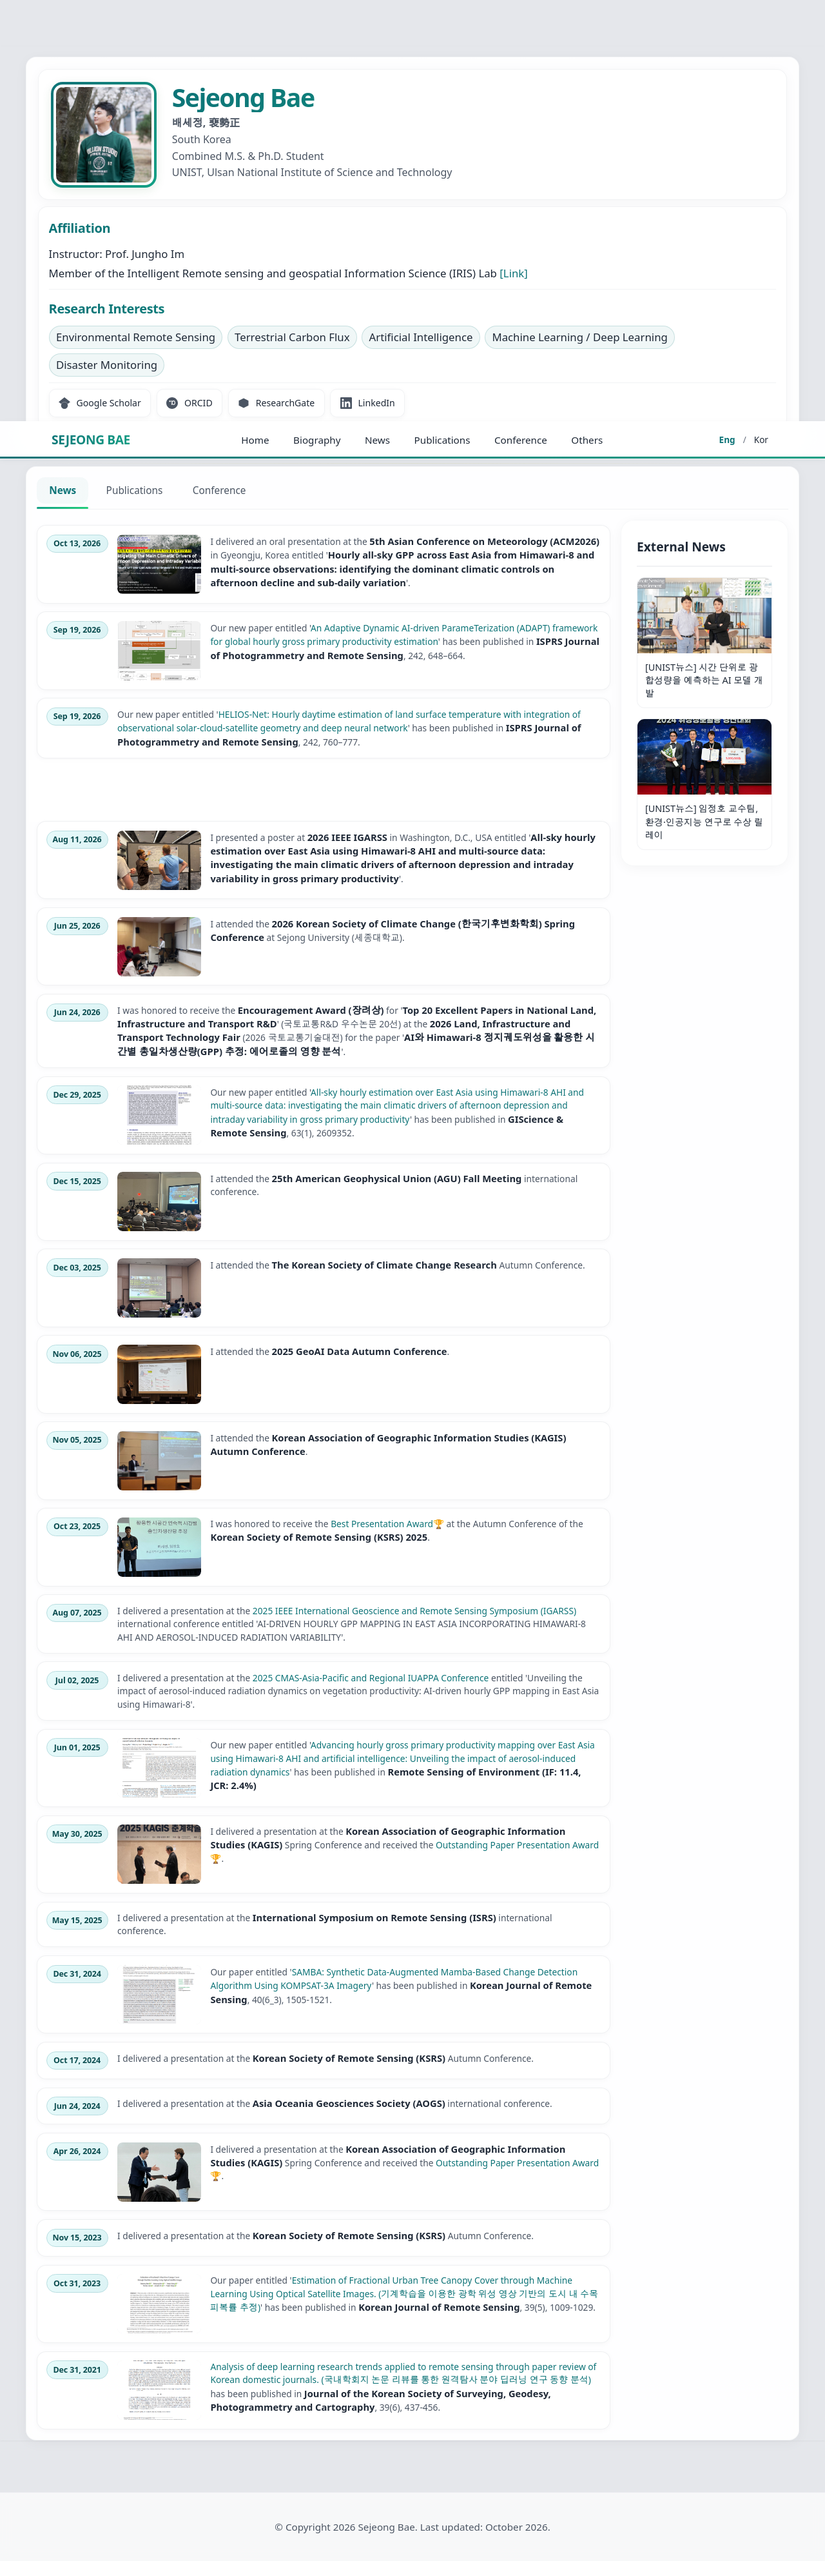
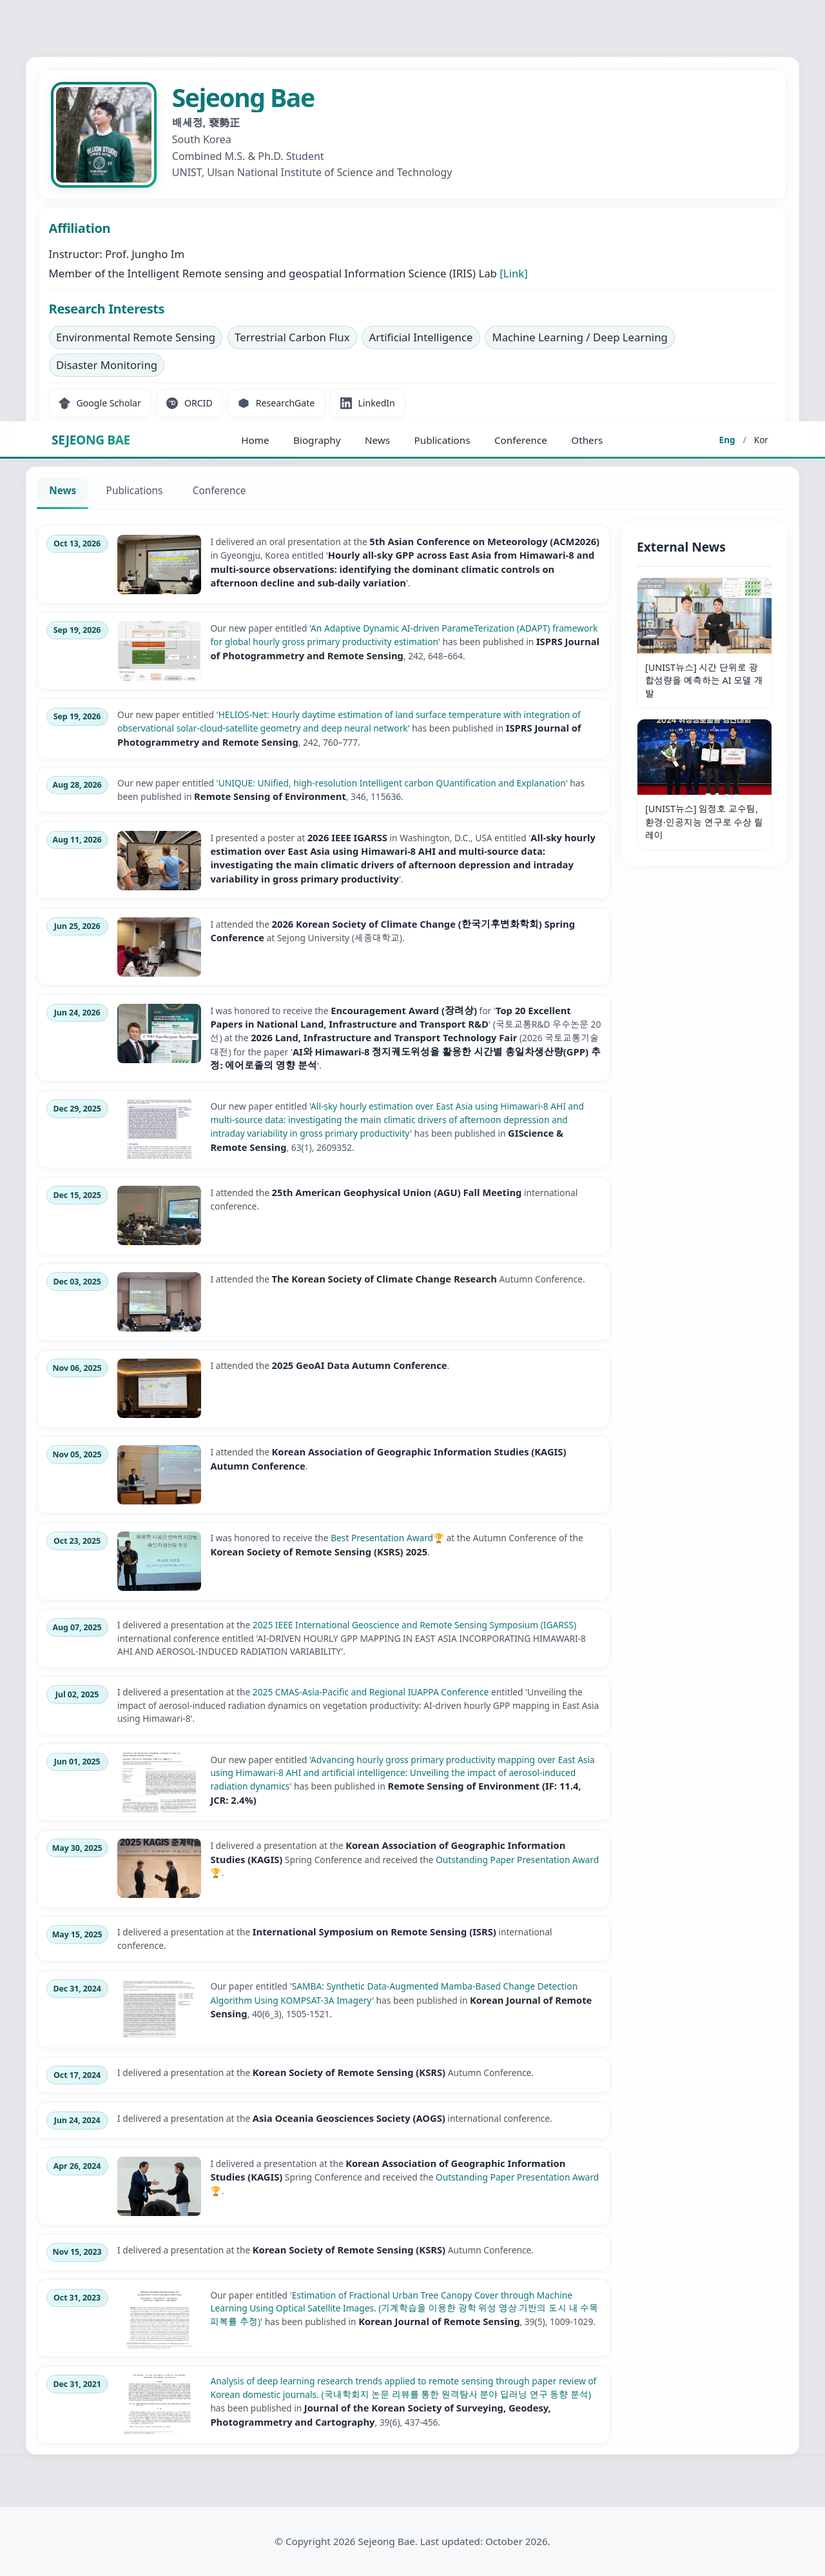
Add MOLIT award and ACM2026 presentation photos for news
- Crop molit2026_award.jpg; switch ACM news to acm2026.jpg
- Remove unused acm2026_slide1-01.png; update import mapping

diff --git a/data/site-data.js b/data/site-data.js
@@ -342,7 +342,7 @@ const SITE_DATA = {
         "I delivered an oral presentation at the **5th Asian Conference on Meteorology (ACM2026)** in Gyeongju, Korea entitled '**Hourly all-sky GPP across East Asia from Himawari-8 and multi-source observations: identifying the dominant climatic controls on afternoon decline and sub-daily variation**'.",
       contentKo:
         "경주에서 열린 **5th Asian Conference on Meteorology (ACM2026)**에서 '**Hourly all-sky GPP across East Asia from Himawari-8 and multi-source observations: identifying the dominant climatic controls on afternoon decline and sub-daily variation**' 제목으로 구두 발표를 진행했습니다.",
-      image: 'news/acm2026_slide1-01.png',
+      image: 'news/acm2026.jpg',
     },
     {
       id: 'news-adapt-published',
@@ -401,6 +401,7 @@ const SITE_DATA = {
         "I was honored to receive the **Encouragement Award (장려상)** for '**Top 20 Excellent Papers in National Land, Infrastructure and Transport R&D**' (국토교통R&D 우수논문 20선) at the **2026 Land, Infrastructure and Transport Technology Fair** (2026 국토교통기술대전) for the paper '**AI와 Himawari-8 정지궤도위성을 활용한 시간별 총일차생산량(GPP) 추정: 에어로졸의 영향 분석**'.",
       contentKo:
         "**2026 국토교통기술대전**에서 논문 '**AI와 Himawari-8 정지궤도위성을 활용한 시간별 총일차생산량(GPP) 추정: 에어로졸의 영향 분석**'이 **국토교통R&D 우수논문 20선**에 선정되어 **장려상**을 수상했습니다.",
+      image: 'news/molit2026_award.jpg',
     },
     {
       id: 'news-gisrs-published',

diff --git a/scripts/generate-news-placeholders.py b/scripts/generate-news-placeholders.py
@@ -28,7 +28,7 @@ def placeholder(label: str, path: Path, size=(1200, 900), color=(41, 98, 255)) -
 
 
 def main() -> None:
-    placeholder("ACM2026 presentation", NEWS / "acm2026_slide1-01.png")
+    placeholder("ACM2026 presentation", NEWS / "acm2026.jpg")
     placeholder("IGARSS 2026 poster", NEWS / "igarss2026_poster_photo.jpg")
     placeholder("ADAPT-GPP flowchart", NEWS / "adapt_gpp_flowchart.png", color=(22, 101, 52))
 

diff --git a/scripts/import-news-photos.py b/scripts/import-news-photos.py
@@ -18,7 +18,7 @@ MAX_BYTES = 500_000
 
 MAPPING = {
     "igarss2026_poster_photo.jpg": "igarss2026_poster_photo.jpg",
-    "acm2026_slide1-01.png": "acm2026_slide1-01.png",
+    "acm2026_photo.png": "acm2026.jpg",
     "adapt_gpp_flowchart.png": "adapt_gpp_flowchart.png",
     "adapt_gpp_cover.png": "adapt_gpp_cover.png",
 }
